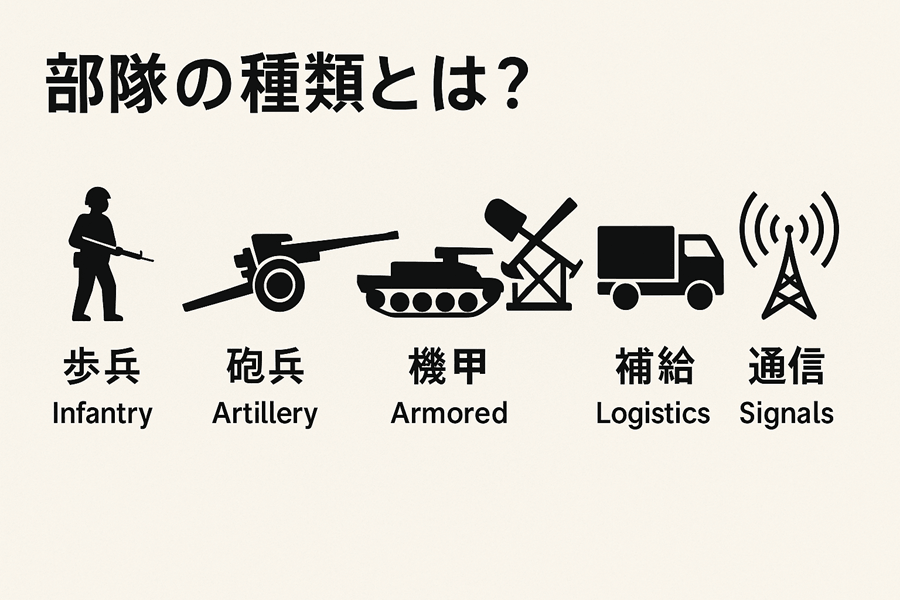
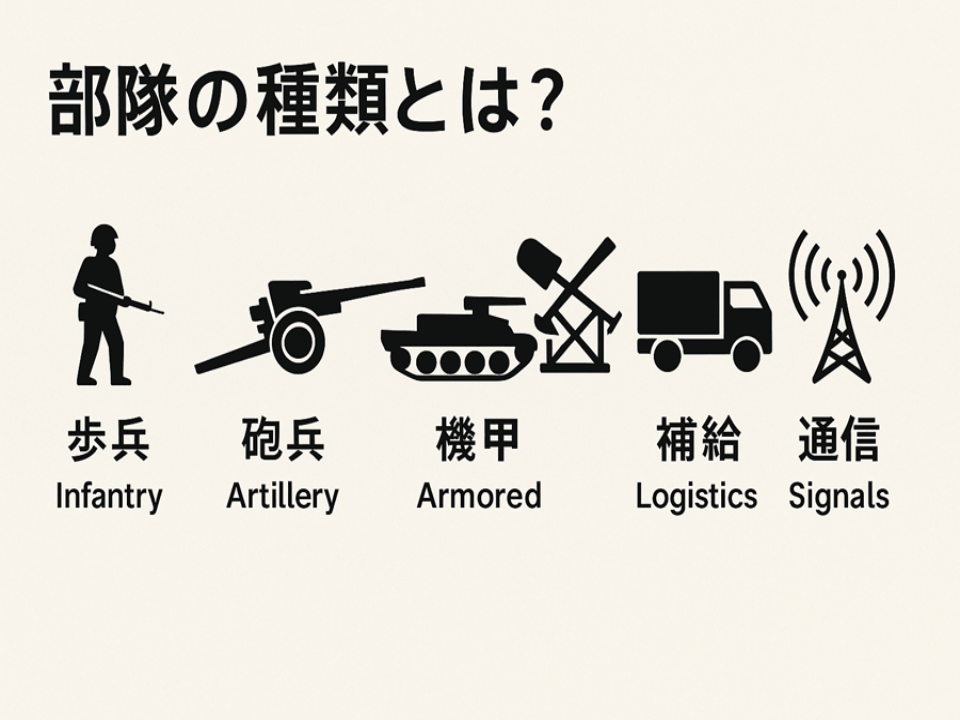
ps

diff --git a/staging/TAKERU/editor/public/app.js b/staging/TAKERU/editor/public/app.js
@@ -1,5 +1,6 @@
 let cardData=[], imageMap={}, selectedIdx=-1, dirty=false, curUnit='', filteredList=[];
 let readingScripts={}, showingReadScript=false, _readScriptSaveTimer=null;
+let mp3Ids=new Set();
 
 // ===== 初期化：サーバーからCSVと画像一覧を自動読み込み =====
 async function init() {
@@ -10,15 +11,17 @@ async function init() {
     const text=await res.text();
     cardData=parseCSV(text);
 
-    // 画像一覧
+    // 画像一覧・MP3一覧を並行取得
     imageMap={};
-    try {
-      const imgRes=await fetch('/api/images');
-      if(imgRes.ok){
-        const map=await imgRes.json();
-        for(const [id,file] of Object.entries(map)) imageMap[id]='/api/images/'+encodeURIComponent(file);
-      }
-    } catch(_){}
+    mp3Ids=new Set();
+    await Promise.all([
+      fetch('/api/images').then(r=>r.ok?r.json():null).then(map=>{
+        if(map) for(const [id,file] of Object.entries(map)) imageMap[id]='/api/images/'+encodeURIComponent(file);
+      }).catch(()=>{}),
+      fetch('/api/voice/list').then(r=>r.ok?r.json():null).then(j=>{
+        if(j?.ids) mp3Ids=new Set(j.ids);
+      }).catch(()=>{})
+    ]);
 
     buildUnitSelect();
     status.textContent=`✅ TAKERUcard.csv（${cardData.length}枚）　🖼 ${Object.keys(imageMap).length}枚`;
@@ -60,17 +63,61 @@ function parseCSV(text) {
 
 function buildUnitSelect() {
   const sel=document.getElementById('unitSelect');
-  const units=[...new Set(cardData.map(d=>d.genre))];
+
+  // CSV登場順を保ちながら subject → [genre,...] のグループを作る
+  const subjectOrder=[], subjectMap=new Map();
+  for(const c of cardData){
+    if(!c.genre) continue;
+    if(!subjectMap.has(c.subject)){
+      subjectMap.set(c.subject,[]);
+      subjectOrder.push(c.subject);
+    }
+    if(!subjectMap.get(c.subject).includes(c.genre))
+      subjectMap.get(c.subject).push(c.genre);
+  }
+
   sel.innerHTML='<option value="">── ユニットを選択 ──</option>';
-  units.forEach(u=>{const o=document.createElement('option');o.value=u;o.textContent=u;sel.appendChild(o);});
-  if(units.length){sel.value=units[0];filterCards();}
+  for(const subj of subjectOrder){
+    const genres=subjectMap.get(subj);
+    if(subj){
+      const grp=document.createElement('optgroup');
+      grp.label=subj;
+      genres.forEach(g=>{const o=document.createElement('option');o.value=g;o.textContent=g;grp.appendChild(o);});
+      sel.appendChild(grp);
+    } else {
+      genres.forEach(g=>{const o=document.createElement('option');o.value=g;o.textContent=g;sel.appendChild(o);});
+    }
+  }
+
+  const firstGenre=cardData.find(c=>c.genre)?.genre||'';
+  if(firstGenre){sel.value=firstGenre;filterCards();}
 }
 
 function filterCards() {
   curUnit=document.getElementById('unitSelect').value;
   filteredList=curUnit?cardData.filter(d=>d.genre===curUnit):cardData;
   document.getElementById('cardCount').textContent=`${filteredList.length}枚`;
+  updateUnitNavBtns();
   renderList();
+}
+
+function updateUnitNavBtns() {
+  const units=[...new Set(cardData.map(d=>d.genre))];
+  const idx=units.indexOf(curUnit);
+  document.getElementById('btnPrevUnit').disabled=idx<=0;
+  document.getElementById('btnNextUnit').disabled=idx<0||idx>=units.length-1;
+}
+
+function prevUnit() {
+  const units=[...new Set(cardData.map(d=>d.genre))];
+  const idx=units.indexOf(curUnit);
+  if(idx>0){ document.getElementById('unitSelect').value=units[idx-1]; filterCards(); }
+}
+
+function nextUnit() {
+  const units=[...new Set(cardData.map(d=>d.genre))];
+  const idx=units.indexOf(curUnit);
+  if(idx>=0&&idx<units.length-1){ document.getElementById('unitSelect').value=units[idx+1]; filterCards(); }
 }
 
 function renderList() {
@@ -91,13 +138,14 @@ function renderList() {
       if(curSec) html+=`<div class="section-header">📂 ${esc(curSec)}</div>`;
     }
     const isC=isCommentary(card.id);
-    // 軍事と戦略以外にはバッジを出す
     const showBadge = card.subject && !card.subject.includes('軍事と戦略');
     const badge=showBadge?(isC?'<span class="badge badge-c">解説</span>':''):'';
     const hasBody=card.body&&!card.body.includes('準備中')&&card.body.trim()!=='';
-    const wipDot=!hasBody?'<span class="item-wip">●</span>':'';
+    const hasImg=!!imageMap[card.id];
+    const hasMp3=mp3Ids.has(card.id);
+    const dots=`<span class="status-dots"><span class="sdot ${hasBody?'sdot-body':'sdot-off'}" title="本文">文</span><span class="sdot ${hasImg?'sdot-img':'sdot-off'}" title="画像">画</span><span class="sdot ${hasMp3?'sdot-mp3':'sdot-off'}" title="MP3">音</span></span>`;
     const active=gIdx===selectedIdx?' active':'';
-    html+=`<div class="card-item${active}" onclick="showCard(${gIdx})">${badge}<span class="item-code">${esc(card.id)}</span><span class="item-title">${esc(card.title)||'（タイトルなし）'}</span>${wipDot}</div>`;
+    html+=`<div class="card-item${active}" onclick="showCard(${gIdx})">${badge}<span class="item-code">${esc(card.id)}</span><span class="item-title">${esc(card.title)||'（タイトルなし）'}</span>${dots}</div>`;
   });
   el.innerHTML=html;
 }
@@ -121,6 +169,7 @@ function showCard(gIdx) {
     if(sel) sel.value=card0.genre;
     filteredList=cardData.filter(d=>d.genre===curUnit);
     document.getElementById('cardCount').textContent=`${filteredList.length}枚`;
+    updateUnitNavBtns();
   }
   renderList();
   renderCard(gIdx);
@@ -550,7 +599,7 @@ async function recordVoice(){
       method:'POST', headers:{'Content-Type':'application/json'},
       body:JSON.stringify({code,text,narrator:getNarrator(),emotion:buildEmotion(),speed:p.speed,pitch:p.pitch})
     })).json();
-    if(json.ok){ showVoiceMsg('✅ '+json.message); checkVoiceStatus(code); }
+    if(json.ok){ mp3Ids.add(code); renderList(); showVoiceMsg('✅ '+json.message); checkVoiceStatus(code); }
     else alert('生成エラー:\n'+json.error);
   } catch(e){ alert('生成に失敗しました:\n'+e.message); }
   finally{ btn.disabled=false; btn.textContent='🎙 録音'; }

diff --git a/staging/TAKERU/editor/public/style.css b/staging/TAKERU/editor/public/style.css
@@ -115,6 +115,19 @@ textarea.svg-overlay-input { min-height:120px; font-family:monospace; font-size:
 .dot-exists { color:#4caf50; }
 .dot-none { color:#666; }
 .voice-note { font-size:0.65rem; color:var(--text3); line-height:1.5; }
+/* ユニットナビ */
+.btn-unit-nav { background:transparent; border:1px solid var(--border); color:var(--text2); width:24px; height:28px; border-radius:3px; cursor:pointer; font-size:0.75rem; flex-shrink:0; display:flex; align-items:center; justify-content:center; padding:0; }
+.btn-unit-nav:hover:not(:disabled) { border-color:var(--accent); color:var(--accent); }
+.btn-unit-nav:disabled { opacity:.25; cursor:default; }
+
+/* ステータスランプ */
+.status-dots { display:flex; gap:2px; flex-shrink:0; margin-left:auto; }
+.sdot { font-size:0.52rem; padding:1px 3px; border-radius:2px; font-weight:700; letter-spacing:0; }
+.sdot-body { background:rgba(76,175,80,.55); color:#e8f5e9; }
+.sdot-img  { background:rgba(74,144,217,.55); color:#e3f2fd; }
+.sdot-mp3  { background:rgba(232,160,64,.55); color:#fff3e0; }
+.sdot-off  { background:rgba(255,255,255,.06); color:#404040; }
+
 .btn-readscript { background:transparent; border:1px solid var(--com); color:var(--com); padding:2px 8px; border-radius:3px; cursor:pointer; font-size:0.68rem; font-family:inherit; white-space:nowrap; }
 .btn-readscript:hover { background:rgba(232,160,64,.15); }
 .btn-readscript.rs-active { background:rgba(232,160,64,.2); }

diff --git a/staging/TAKERU/editor/server.js b/staging/TAKERU/editor/server.js
@@ -266,6 +266,19 @@ function getVoiceNarrators(req, res) {
     .catch(e => sendJSON(res, 200, { ok: false, error: e.message }));
 }
 
+// GET /api/voice/list — voicesDirにあるMP3のIDリストを返す
+function getVoiceList(req, res) {
+  const { voicesDir } = getVpConfig();
+  try {
+    const ids = fs.readdirSync(voicesDir)
+      .filter(f => f.toLowerCase().endsWith('.mp3'))
+      .map(f => path.basename(f, '.mp3'));
+    sendJSON(res, 200, { ok: true, ids });
+  } catch {
+    sendJSON(res, 200, { ok: true, ids: [] });
+  }
+}
+
 // GET /api/voice/status/:code
 function getVoiceStatus(req, res, code) {
   const { voicesDir } = getVpConfig();
@@ -375,6 +388,7 @@ const server = http.createServer((req, res) => {
     return getImageFile(req, res, pathname.slice('/api/images/'.length));
   if (pathname === '/api/images/process' && method === 'POST') return postImageProcess(req, res);
   if (pathname === '/api/voice/narrators' && method === 'GET') return getVoiceNarrators(req, res);
+  if (pathname === '/api/voice/list' && method === 'GET') return getVoiceList(req, res);
   if (pathname.startsWith('/api/voice/status/') && method === 'GET')
     return getVoiceStatus(req, res, pathname.slice('/api/voice/status/'.length));
   if (pathname.startsWith('/api/voice/audio/') && method === 'GET')

diff --git a/staging/TAKERU/editor/public/index.html b/staging/TAKERU/editor/public/index.html
@@ -38,9 +38,11 @@
   <!-- 列1：カード一覧 -->
   <div class="pane-list">
     <div class="pane-toolbar">
+      <button class="btn-unit-nav" id="btnPrevUnit" onclick="prevUnit()" disabled title="前のユニット">◀</button>
       <select id="unitSelect" onchange="filterCards()">
         <option value="">── ユニットを選択 ──</option>
       </select>
+      <button class="btn-unit-nav" id="btnNextUnit" onclick="nextUnit()" disabled title="次のユニット">▶</button>
       <span class="card-count" id="cardCount">0枚</span>
     </div>
     <div class="list-scroll" id="listScroll">
